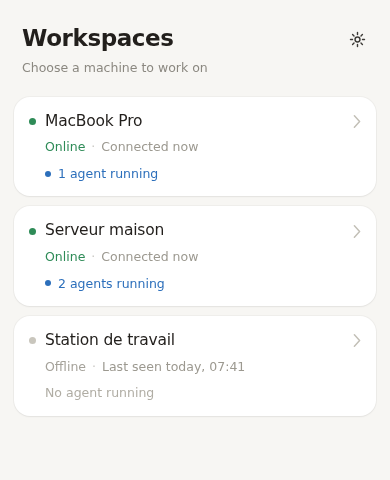
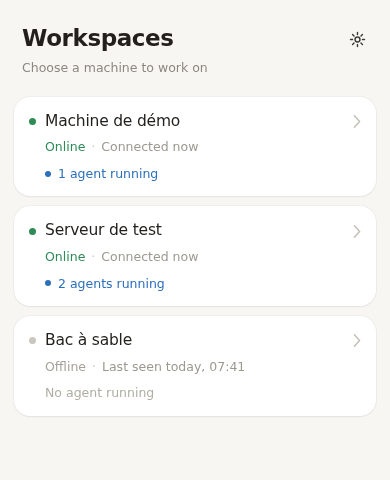
privacy: use generic infrastructure examples in docs and demo data

Changed region(s): [[0.1846, 0.2188, 0.4615, 0.2812], [0.0923, 0.6875, 0.4615, 0.7188], [0.2769, 0.4688, 0.4308, 0.5]]

diff --git a/pwa/tests/landing/mock.ts b/pwa/tests/landing/mock.ts
@@ -99,9 +99,9 @@ export async function mockProduct(page: Page) {
     localStorage.setItem('sovereign.settings.v1', JSON.stringify({
       openaiKey: '',
       servers: [
-        { id: 'macbook', name: 'MacBook Pro', url: 'https://macbook.demo.invalid', token: 'demo-not-a-secret', lastSeen: now },
-        { id: 'server', name: 'Serveur maison', url: 'https://server.demo.invalid', token: 'demo-not-a-secret', lastSeen: now },
-        { id: 'studio', name: 'Station de travail', url: 'https://studio.demo.invalid', token: 'demo-not-a-secret', lastSeen: now - 7_200_000 },
+        { id: 'dev-machine', name: 'Machine de démo', url: 'https://dev-machine.demo.invalid', token: 'demo-not-a-secret', lastSeen: now },
+        { id: 'test-server', name: 'Serveur de test', url: 'https://test-server.demo.invalid', token: 'demo-not-a-secret', lastSeen: now },
+        { id: 'sandbox', name: 'Bac à sable', url: 'https://sandbox.demo.invalid', token: 'demo-not-a-secret', lastSeen: now - 7_200_000 },
       ],
     }));
   }, { now });
@@ -122,10 +122,10 @@ export async function mockProduct(page: Page) {
       return route.abort();
     }
     if (path === '/api/workspace') {
-      if (url.hostname.startsWith('studio.')) return route.fulfill({ status: 503, json: { error: 'Demo machine offline' } });
+      if (url.hostname.startsWith('sandbox.')) return route.fulfill({ status: 503, json: { error: 'Demo machine offline' } });
       const workspace: Workspace = {
-        name: url.hostname.startsWith('macbook.') ? 'MacBook Pro' : 'Serveur maison',
-        version: '0.1.0', uptime_secs: 86400, agents_running: url.hostname.startsWith('macbook.') ? 1 : 2,
+        name: url.hostname.startsWith('dev-machine.') ? 'Machine de démo' : 'Serveur de test',
+        version: '0.1.0', uptime_secs: 86400, agents_running: url.hostname.startsWith('dev-machine.') ? 1 : 2,
         agents: ['pi', 'claude'],
       };
       return route.fulfill({ json: workspace });

diff --git a/pwa/tests/landing/capture.spec.ts b/pwa/tests/landing/capture.spec.ts
@@ -17,7 +17,7 @@ async function capture(page: Page, name: string, region?: Locator) {
 test('capture the real desktop conversation and diff', async ({ page }) => {
   await page.setViewportSize({ width: 1440, height: 760 });
   const unexpected = await mockProduct(page);
-  await page.goto('/w/macbook/t/dark-mode');
+  await page.goto('/w/dev-machine/t/dark-mode');
   await expect(page.locator('.markdown')).toContainText('8 tests passent');
   await expect(page.locator('.sidebar')).toContainText('Offline');
   await page.getByRole('radio', { name: 'Project', exact: true }).click();
@@ -36,7 +36,7 @@ test('capture the real desktop conversation and diff', async ({ page }) => {
 test('capture the real mobile conversation and workspace list', async ({ page }) => {
   await page.setViewportSize({ width: 390, height: 780 });
   const unexpected = await mockProduct(page);
-  await page.goto('/w/macbook/t/dark-mode');
+  await page.goto('/w/dev-machine/t/dark-mode');
   await expect(page.locator('.markdown')).toContainText('8 tests passent');
   await capture(page, 'mobile-conversation');
 

diff --git a/pwa/src/screens/Settings.svelte b/pwa/src/screens/Settings.svelte
@@ -83,8 +83,8 @@
 
     <div class="section">Add a machine</div>
     <div class="card form">
-      <input class="field" placeholder="Name (e.g. wsl odk)" bind:value={name} autocapitalize="off" />
-      <input class="field" placeholder="URL (e.g. https://odk.tailnet.ts.net)" bind:value={url} autocapitalize="off" autocorrect="off" inputmode="url" />
+      <input class="field" placeholder="Name (e.g. dev-machine)" bind:value={name} autocapitalize="off" />
+      <input class="field" placeholder="URL (e.g. https://dev-machine.example.invalid)" bind:value={url} autocapitalize="off" autocorrect="off" inputmode="url" />
       <input class="field" placeholder="Token" bind:value={token} autocapitalize="off" autocorrect="off" />
       {#if testResult}
         <div class="result" class:bad={testResult.startsWith('Failed')}>{testResult}</div>

diff --git a/pwa/tests/browser/markdown.spec.ts b/pwa/tests/browser/markdown.spec.ts
@@ -1,6 +1,6 @@
 import { expect, test } from '@playwright/test';
 
-const longPath = '~/dev/dematDashboard/worktrees/' + 'long-branch-name-'.repeat(12);
+const longPath = '~/dev/example-project/worktrees/' + 'long-branch-name-'.repeat(12);
 const table = `| Chemin | Branche | Rôle |\n|:---|:---:|---:|\n| \`${longPath}\` | \`main\` | Actuel |\n| \`~/worktree\` | \`fix/bug\` | Correction |`;
 const reply = `# Worktrees\n\n${table}\n\n### Détails\n\n1. Premier\n   - Enfant\n2. Second\n\n> *Citation* et ~~barré~~\n\n- [x] Vérifié\n\n[Documentation](https://example.com)\n\n\`${longPath}\`\n\n\`\`\`ts\nconst path = "${longPath}";\n<script>alert(1)</script>\n\`\`\``;
 

diff --git a/PLAN.md b/PLAN.md
@@ -18,7 +18,7 @@ Console mobile pour piloter des sessions pi à distance. Deux parties dans ce mo
 | Modèle et branche | Modèle sélectionnable via le RPC pi ; branche git affichée seulement. |
 | Approbations | pi est autonome. Une carte générique pour `extension_ui_request` est prévue en dernière phase, seulement si un cas réel apparaît. |
 | Notifications push | Hors v1. |
-| Git | Petits commits atomiques tout au long du développement. Auteur : yannick.herrero@proton.me (config locale du repo). |
+| Git | Petits commits atomiques tout au long du développement. Utiliser l’identité Git configurée pour le contributeur. |
 
 ## 2. Ce que pi fournit (vérifié sur pi 0.83.0)
 
@@ -27,7 +27,7 @@ Console mobile pour piloter des sessions pi à distance. Deux parties dans ce mo
 - Événements utiles : `agent_start`, `turn_start`, `message_update` (deltas `text_delta`, `toolcall_*`, `thinking_*`), `tool_execution_start|update|end`, `turn_end`, `agent_end`, `agent_settled`, `extension_ui_request`.
 - `get_state` renvoie `sessionFile`, `sessionId`, `sessionName`, `model`, `isStreaming`.
 - Sessions : fichiers JSONL v3 dans `~/.pi/agent/sessions/<cwd encodé>/`. Entrées `session` (cwd), `session_info` (name), `model_change`, `thinking_level_change`, `message` (user, assistant, toolResult) chaînées par `id`/`parentId`.
-- `--session-id <uuid>` crée une session avec un id connu, `--session <path|id>` la reprend. `--name` nomme la session. Le modèle par défaut vient de `~/.pi/agent/settings.json` (actuellement openai-codex / gpt-6-astra).
+- `--session-id <uuid>` crée une session avec un id connu, `--session <path|id>` la reprend. `--name` nomme la session. Le modèle par défaut vient de `~/.pi/agent/settings.json`.
 - Comportement observé : pi commence souvent par un `bash` d'exploration (pwd, git status) avant d'écrire. Les outils `write` et `edit` exposent `path` dans `args`.
 
 Choix qui en découle : les sessions restent dans le dossier par défaut de pi, donc elles apparaissent aussi dans `pi -r` sur la machine. Le serveur lit le JSONL directement pour afficher une tâche sans relancer pi, et ne lance un process que pour envoyer un prompt.
@@ -41,7 +41,7 @@ axum, tokio, tokio-tungstenite (via axum ws), serde, serde_json, rust-embed (PWA
 ### Config `~/.config/sovereign/config.toml`
 
 ```toml
-name = "wsl odk"          # nom affiché dans Workspaces
+name = "dev-machine"      # nom d’exemple affiché dans Workspaces
 listen = "127.0.0.1:7777"
 token = "..."             # généré avec le nouveau fichier ; un token vide est refusé
 repos_root = "~/dev"
@@ -254,7 +254,7 @@ Estimation : D0 est la phase la plus risquée (refactor du mobile), les autres s
 
 Objectif : une tâche Sovereign peut être exécutée par pi ou par Claude Code, au choix au moment de la création, avec un sélecteur de modèles groupés par fournisseur.
 
-### Faisabilité : élevée, vérifiée sur Claude Code 2.1.267 installé sur cette machine
+### Faisabilité : élevée, vérifiée sur Claude Code 2.1.267 dans un environnement de test
 
 Tests réalisés en ligne de commande depuis un dépôt bac à sable :
 
@@ -349,7 +349,7 @@ Décisions prises le 10 septembre 2026 : Claude Code tourne toujours en `--permi
 | C3 | Modèles groupés par agent et fournisseur, config `[claude]`, `set_model`, sélection à la création | `GET /models` renvoie les deux agents, changement de modèle en session vérifié |
 | C4 | Cartes de questions génériques (choix unique, multiple, confirmation, saisie) branchées sur les requêtes d'extension pi via `ui-response`. Spike limité à deux heures pour faire remonter AskUserQuestion de Claude Code sur stdio (comparer avec ce que fait l'Agent SDK TypeScript) ; si concluant, branchement de la même carte | question pi → carte → réponse reçue par l'extension |
 | C5 | PWA : sélecteur groupé, badge agent, carte de demande, chip composer | captures mobile et desktop, run Claude Code suivi depuis la PWA |
-| C6 | Titre par backend, README, redéploiement Vercel et Rebuild Citadel | |
+| C6 | Titre par backend, README, redéploiement Vercel et recompilation du serveur | |
 
 Ordre de grandeur : serveur 800 à 1 000 lignes de Rust (dont 250 de déplacement pur en C0), PWA 250 à 300 lignes. C0 est la phase à risque puisqu'elle touche le chemin pi en production ; elle se vérifie avec le test de bout en bout existant. C4 côté Claude Code dépend d'un comportement non reproduit sur la version installée ; le reste du chantier n'en dépend pas.
 

diff --git a/landing/README.md b/landing/README.md
@@ -43,13 +43,13 @@ Les quatre PNG sont versionnés : le build de la landing ne lance pas la PWA. Le
 
 Production : **https://sovereign-landing-chi.vercel.app**.
 
-Projet Vercel : `sovereign-landing`, dans `yannick-herreros-projects-da137f6e`, relié au dépôt GitHub avec `landing` comme Root Directory et Node.js 24.x. Il est distinct du projet `sovereign` qui héberge la PWA.
+Projet Vercel : `sovereign-landing`, relié au dépôt GitHub avec `landing` comme Root Directory et Node.js 24.x. Il est distinct du projet `sovereign` qui héberge la PWA.
 
 Pour republier via la CLI, exécuter **depuis la racine du dépôt**, pas depuis `landing/` :
 
 ```sh
-vercel link --yes --project sovereign-landing --scope yannick-herreros-projects-da137f6e
-vercel deploy --prod --yes --scope yannick-herreros-projects-da137f6e
+vercel link --yes --project sovereign-landing --scope <votre-equipe-vercel>
+vercel deploy --prod --yes --scope <votre-equipe-vercel>
 ```
 
 `landing/vercel.json` fixe les commandes et le dossier de sortie. Le `.vercelignore` à la racine limite les envois CLI à la landing, sans les dépendances locales, les builds, les secrets ni les autres apps. Les fichiers `.vercel/` et `.env.local` créés par Vercel restent ignorés par Git.

diff --git a/README.md b/README.md
@@ -29,8 +29,10 @@ cargo install --path .
 
 Premier lancement : `sovereign-server` crée `~/.config/sovereign/config.toml` avec un token aléatoire. Sur Unix, le fichier est créé avec les permissions `0600` (lecture/écriture réservées au propriétaire) ; ces permissions sont aussi appliquées aux configurations existantes à chaque démarrage.
 
+Les exemples de configuration, les données de test et les captures utilisent des noms de machines, projets et adresses fictifs. Ne pas y inclure d’identifiants d’une infrastructure personnelle.
+
 ```toml
-name = "wsl odk"          # nom affiché dans l'écran Workspaces
+name = "dev-machine"      # nom d’exemple affiché dans Workspaces
 listen = "127.0.0.1:7777"
 token = "..."             # à saisir dans la PWA
 repos_root = "~/dev"      # chaque sous-dossier est un repo proposé à la création d'une tâche
